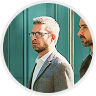
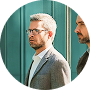
fix photo

diff --git a/index.html b/index.html
@@ -124,7 +124,7 @@
                         <div class="hero-content">
                             <div class="hero-wrapper__img">
                                 <img src="assets/images/photo-2.png" alt="Photo" class="hero__img">
-                                <img src="assets/images/photo-1.png" alt="Photo" class="hero__img hero__photo--center">
+                                <img src="assets/images/photo-1.png" alt="Photo" class="hero__img hero__img--center">
                                 <img src="assets/images/photo-3.png" alt="Photo" class="hero__img">
                             </div>
                             <h1 class="hero-title">

diff --git a/assets/css/main.css b/assets/css/main.css
@@ -279,10 +279,12 @@ li {
     width: 75px;
     height: 75px;
 }
-.hero__photo--center {
+.hero__img--center {
     width: 50px;
     height: 50px;
     transform: scale(1.9);
+    border: 3px solid #ececec;
+    border-radius: 111px;
 }
 .hero-title {
     font-size: 80px;
